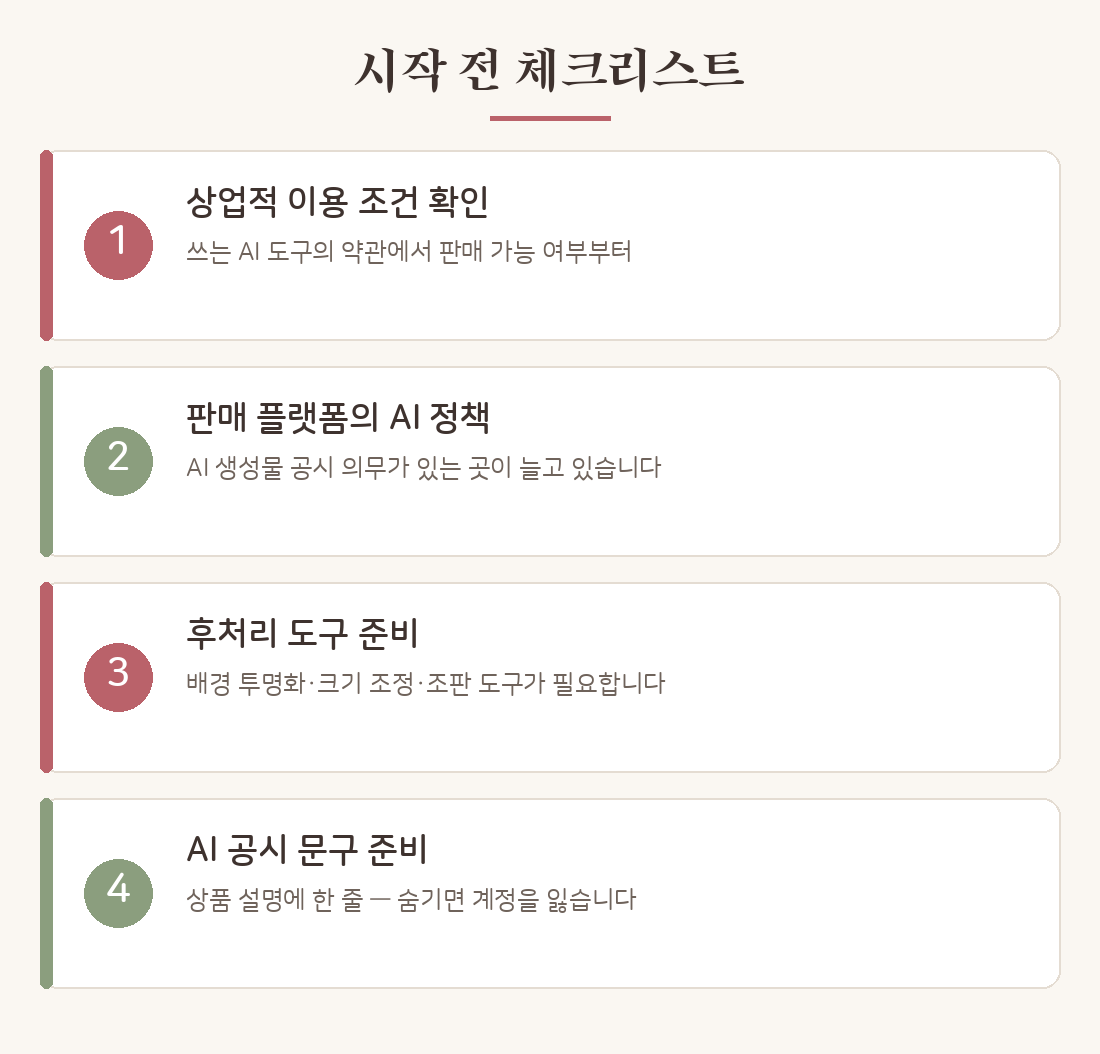
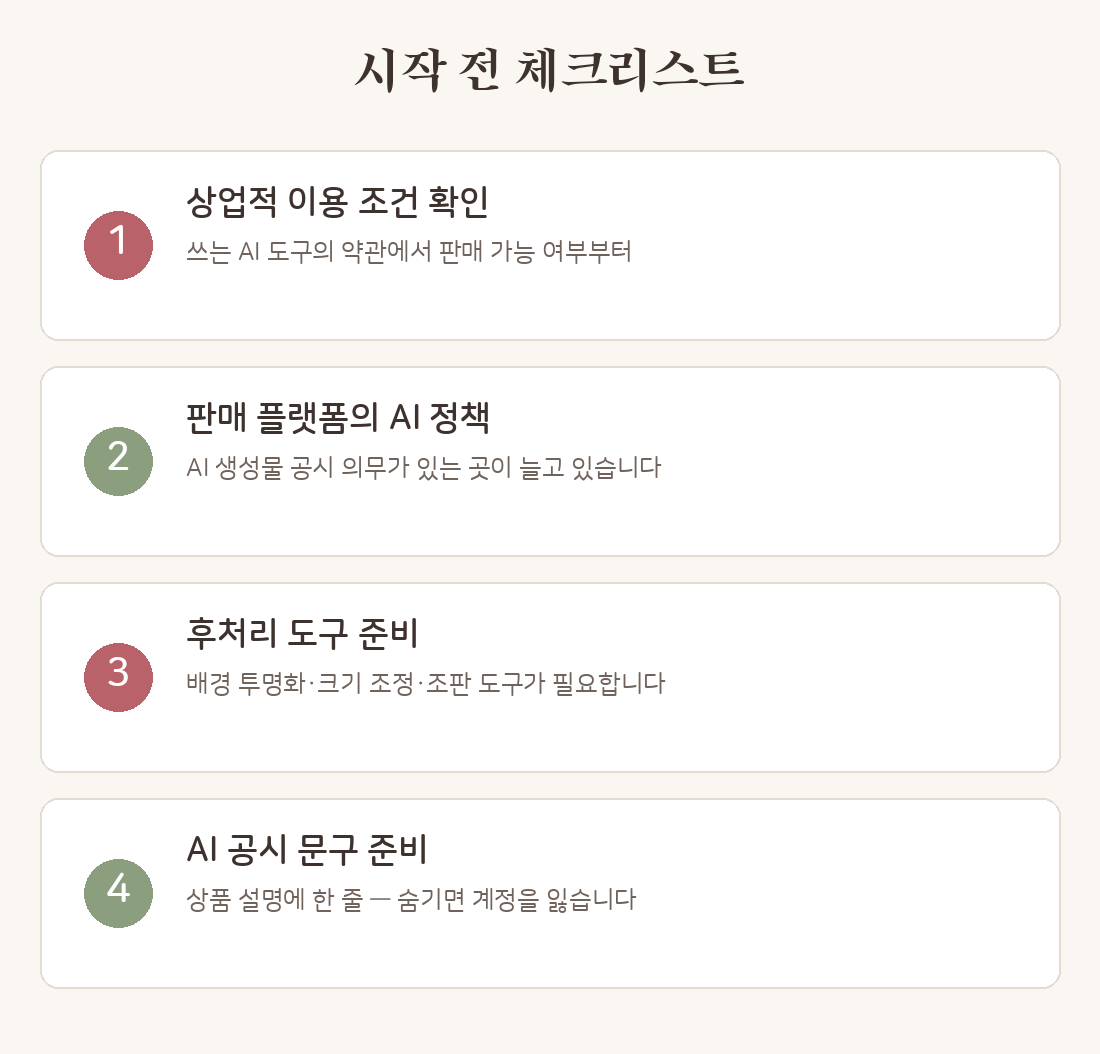
디자인 정리: 막대 강조 전면 제거 + 한글 타이포그래피 정교화
- CSS: 세로/가로 막대·밑줄 강조 모두 제거, 여백·크기·색으로만 위계
- 이미지 조판(배너·OG카드·인포카드·핀·GIF)에서도 구분선 제거 후 재생성
- word-break: keep-all 전면 적용(한글 줄바꿈), 본문 17px/1.85, 제목 자간 조정
- 표는 테두리 대신 배경 줄무늬로
- 디자인 원칙을 공정 문서에 명문화

Claude-Session: https://claude.ai/code/session_01ViJL553yT2UPWUQs7NRRpU

Changed region(s): [[0.0309, 0.1214, 0.0618, 0.7287], [0.0309, 0.759, 0.0618, 0.9412], [0.4636, 0.0911, 0.5564, 0.1214]]

diff --git a/assets/main.scss b/assets/main.scss
@@ -21,7 +21,6 @@ h1, h2, h3, h4, h5, h6, .site-title, .post-title {
 }
 
 .site-header {
-  border-bottom: 1px solid #EFE7DD;
   background: #FAF7F2;
 }
 
@@ -55,7 +54,7 @@ table { border-collapse: collapse; }
 table th { background: #FAF7F2; color: #3E322E; }
 table th, table td { border: 1px solid #EAE2D8; }
 
-.site-footer { background: #FAF7F2; border-top: 1px solid #EAE2D8; }
+.site-footer { background: #FAF7F2; margin-top: 52px; }
 
 /* --- 홈 카드 그리드 --- */
 .latest-heading { margin-top: 54px; }
@@ -759,3 +758,44 @@ $soft: cubic-bezier(.25,.46,.45,.94);
   .lp-hero-soso { width: 132px; }
   .lp-btn { width: 100%; }
 }
+
+
+/* ═══════════ 한글 타이포그래피 ═══════════
+   원칙: 막대·선으로 강조하지 않는다. 크기·굵기·색·여백으로만. */
+
+html { -webkit-text-size-adjust: 100%; }
+body {
+  font-size: 17px; line-height: 1.85; letter-spacing: -.003em;
+  font-feature-settings: "kern" 1, "liga" 1;
+  text-rendering: optimizeLegibility;
+}
+/* 한글은 단어 중간에서 줄바꿈하지 않는다 — 가독성 핵심 */
+body, p, li, h1, h2, h3, h4, h5, h6, blockquote, td, th, figcaption,
+.pc-title, .pi-title, .product-desc, .lp-lead, .lp-h1, .lp-h2 {
+  word-break: keep-all; overflow-wrap: break-word;
+}
+
+h1, h2, h3, h4 { letter-spacing: -.022em; line-height: 1.45; }
+.post-title {
+  font-size: clamp(1.75rem, 5.4vw, 2.5rem); line-height: 1.38;
+  letter-spacing: -.032em; margin-bottom: 10px;
+}
+.post-content h2 {
+  font-size: clamp(1.3rem, 3.6vw, 1.62rem); margin-top: 2.4em; margin-bottom: .7em;
+}
+.post-content h3 {
+  font-size: clamp(1.1rem, 3vw, 1.24rem); margin-top: 1.9em; margin-bottom: .55em;
+}
+.post-content p { margin-bottom: 1.5em; }
+.post-content ul, .post-content ol { margin-bottom: 1.6em; }
+.post-content li { margin-bottom: .5em; }
+.post-content strong { font-weight: 700; color: #2f2622; }
+
+/* 표는 선 대신 배경 줄무늬로 */
+table { border: none !important; font-size: .94rem; }
+table th, table td { border: none !important; padding: 12px 14px; }
+table th { background: #F3EDE4; font-weight: 700; }
+table tr:nth-child(even) { background: #FBF8F4; }
+
+.page-content { padding-top: 26px; }
+.post-meta { font-size: .86rem; letter-spacing: 0; }

diff --git a/scripts/og_card.py b/scripts/og_card.py
@@ -60,7 +60,6 @@ def make(title, hero, out_path):
         c.img.paste(Image.alpha_composite(c.img.convert('RGBA'), veil).convert('RGB'), (0, 0))
 
     # 좌측 텍스트 영역
-    d.rectangle([0, 0, 12, H], fill=BLUSH)
     f_t = ImageFont.truetype(SONG, 62)
     f_s = ImageFont.truetype(KR_R, 27)
     f_v = ImageFont.truetype(VIBES, 38)
@@ -70,8 +69,7 @@ def make(title, hero, out_path):
     for i, ln in enumerate(lines):
         c.text(64, y, ln, f_t, INK, tag=f'l{i}')
         y += 84
-    d.rectangle([64, y + 14, 190, y + 19], fill=BLUSH)
-    c.text(64, y + 44, '소소의 작업실 · 만들고, 팔고, 그 과정을 기록합니다', f_s, (111, 99, 91), tag='sub')
+    c.text(64, y + 26, '소소의 작업실 · 만들고, 팔고, 그 과정을 기록합니다', f_s, (150, 108, 112), tag='sub')
 
     if os.path.exists(ACORN):
         c.image(ACORN, W - 118, H - 132, 104, tag='acorn')

diff --git a/scripts/infocard.py b/scripts/infocard.py
@@ -27,7 +27,6 @@ def make_cards(title, items, out, w=1100, sub=None):
     f_n = ImageFont.truetype(KR_B, 40)
     tw = d.textlength(title, font=f_t)
     d.text(((w-tw)//2, 44), title, font=f_t, fill=INK)
-    d.rectangle([(w-120)//2, 116, (w+120)//2, 120], fill=BLUSH)
     if sub:
         sw = d.textlength(sub, font=f_sub)
         d.text(((w-sw)//2, 138), sub, font=f_sub, fill=SUB)
@@ -37,7 +36,6 @@ def make_cards(title, items, out, w=1100, sub=None):
         l2 = it[3] if len(it) > 3 else ""
         col = BLUSH if i % 2 == 0 else SAGE
         d.rounded_rectangle([40, y, w-40, y+ch], radius=18, fill=CARD, outline=LINE, width=2)
-        d.rounded_rectangle([40, y, 52, y+ch], radius=6, fill=col)
         cx, cy = 118, y + ch//2
         d.ellipse([cx-34, cy-34, cx+34, cy+34], fill=col)
         d.text((cx, cy-3), num, font=f_n, fill=(255,255,255), anchor="mm")

diff --git a/scripts/gif_steps.py b/scripts/gif_steps.py
@@ -29,7 +29,6 @@ def draw_frame(title, steps, appear, title_a):
     tc = tuple(int(CREAM[i] + (INK[i]-CREAM[i]) * title_a) for i in range(3))
     tw = d.textlength(title, font=ft)
     d.text(((W-tw)//2, 42), title, font=ft, fill=tc)
-    d.rectangle([W//2-40, 92, W//2+40, 95], fill=tuple(int(CREAM[i]+(BLUSH[i]-CREAM[i])*title_a) for i in range(3)))
     # 카드 4장: 고정 그리드 (x centers), 카드 160x210
     cw, ch, cy = 168, 220, 260
     xs = [110, 303, 496, 689]

diff --git a/scripts/pin_gen.py b/scripts/pin_gen.py
@@ -45,8 +45,6 @@ def make_pin(cover, headline, sub, meta, out_name):
     im = im.crop((0, 0, W, IMG_H))
     c.img.paste(im, (0, 0))
 
-    # 이미지 아래 구분선
-    d.rectangle([0, IMG_H-4, W, IMG_H], fill=BLUSH)
 
     # 텍스트 블록을 밴드 중앙에 배치
     f_h = pf(58, 800); f_s = pf(30, 500); f_m = pf(30, 700)

diff --git a/CLAUDE.md b/CLAUDE.md
@@ -77,6 +77,15 @@
 - 배포 후에는 새 페이지 URL을 curl로 200 확인할 것. 200이 아니면 빌드 실패를 의심한다.
 - 새 페이지/글 배포 후에는 `curl`로 사이트맵을 확인해 **의도한 URL만** 실려 있는지 점검한다.
 
+## 디자인 원칙 (반드시 지킬 것)
+
+- **막대(선)로 강조하지 않는다.** 세로 막대(border-left)·가로 룰·밑줄 강조 전부 금지.
+  위계는 **크기·굵기·색·여백**으로만 만든다. 이미지 조판에서도 동일
+  (`d.rectangle`로 구분선 긋지 말 것).
+- 한글 조판: `word-break: keep-all` 유지 — 단어 중간 줄바꿈 방지가 가독성의 핵심.
+  본문 17px / 행간 1.85, 제목 자간 -.022em.
+- 제목 서체 고운바탕, 본문 Noto Sans KR. 시스템 폰트로 대체하지 말 것.
+
 ## 브랜드
 
 - 마스코트 소소(다람쥐 화가, 핑크 베레모) — hometory-note repo의 소소 캐릭터와 동일
